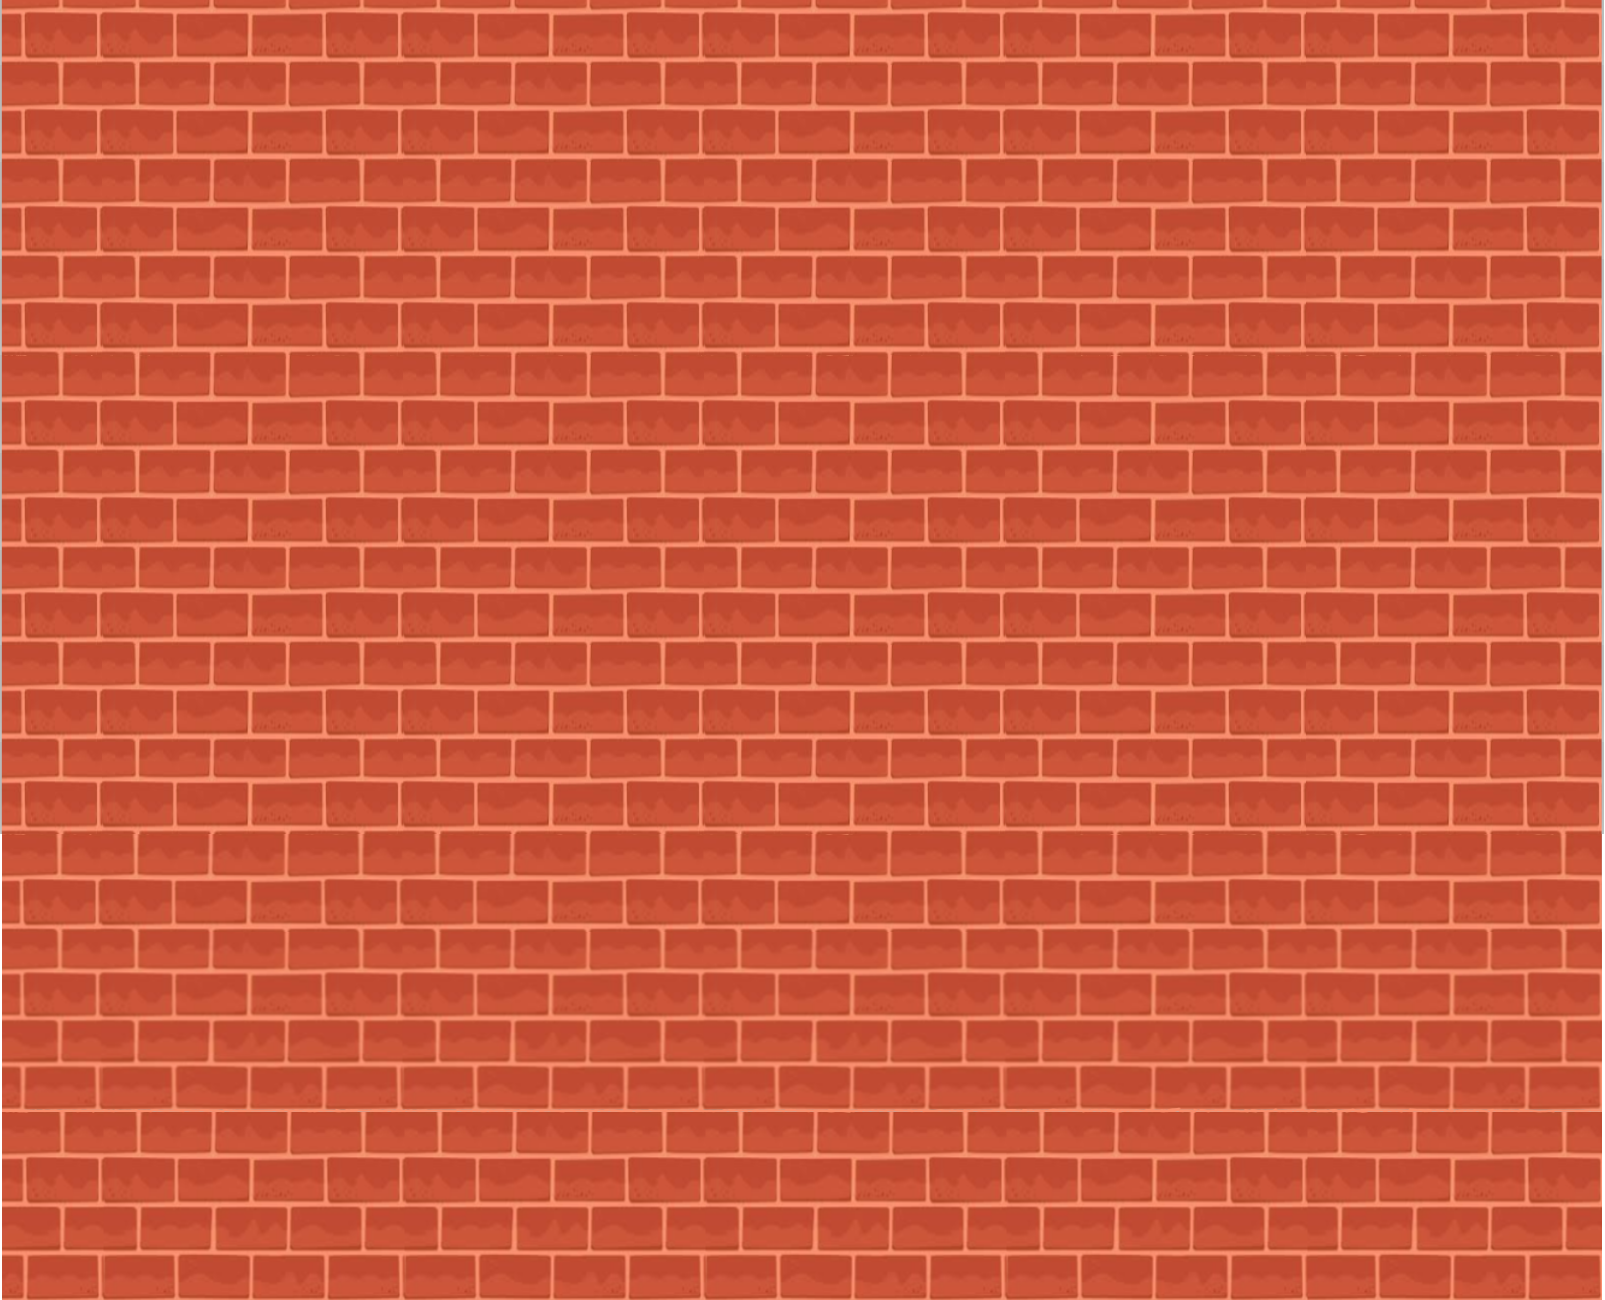
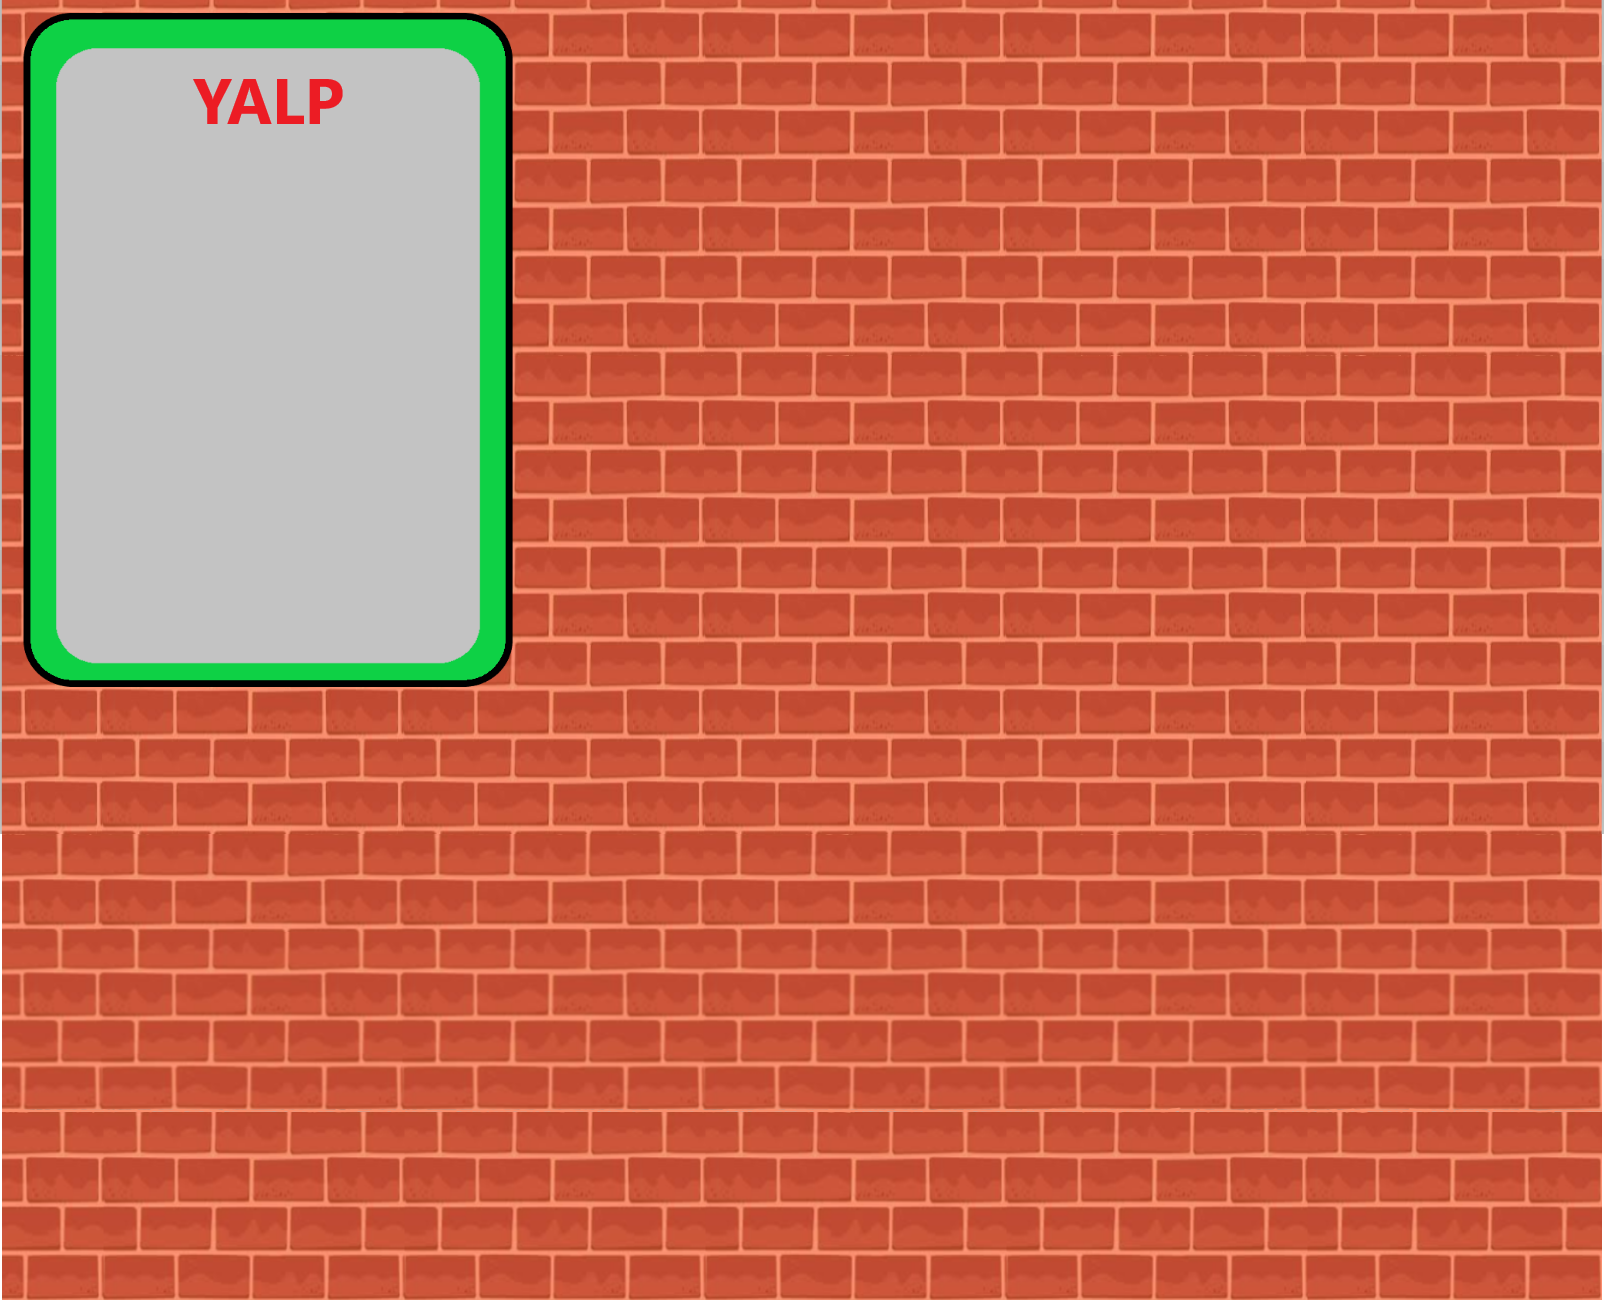
added place for reviews to print onto screen

Changed region(s): [[0.0, 0.0, 0.3427, 0.5538]]

diff --git a/js/sketch.js b/js/sketch.js
@@ -182,7 +182,7 @@ function loadGeneratedText(food, toppings) {
 
 function review(reviewText, width, height){
   let maxWidth = width/4;
-  let y = height/14;
+  let y = height/14 *2;
   let x = width/6;
   let fontSize = width/40;
   textSize(fontSize);
